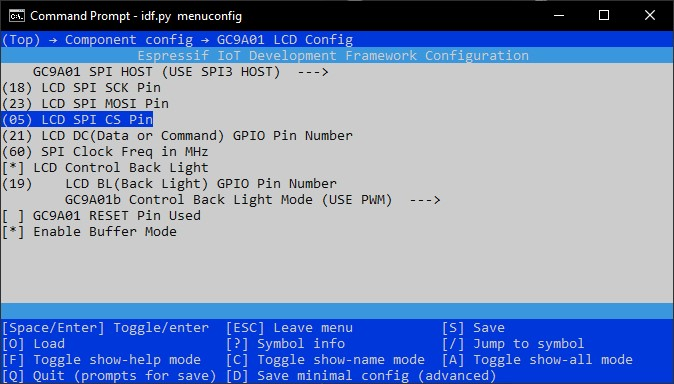
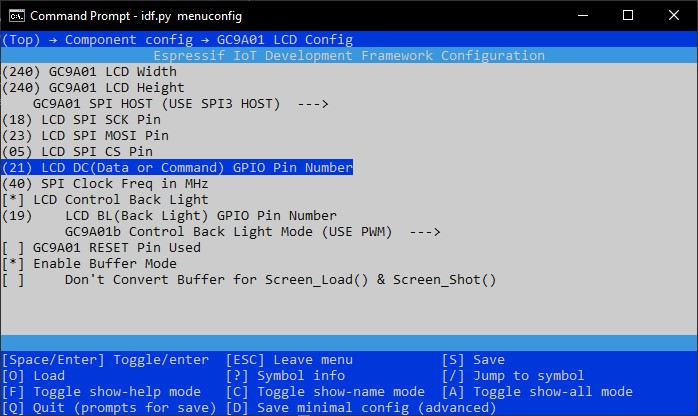
add ScreenShot function

Changed region(s): [[0.0, 0.0, 1.0, 0.6875], [0.0, 0.7812, 1.0, 1.0], [0.6231, 0.5, 0.6543, 0.5312]]

diff --git a/gc9a01.c b/gc9a01.c
@@ -67,9 +67,6 @@
 #define MADCTL_BGR       0x08
 #define MADCTL_MH        0x04
 
-#define GC9A01_Width	240
-#define GC9A01_Height 	240
-
 uint8_t GC9A01_X_Start = 0, GC9A01_Y_Start = 0;
 
 #if (CONFIG_GC9A01_BUFFER_MODE)
@@ -608,3 +605,35 @@ void GC9A01_Init()
 	#endif
 }
 
+#if(CONFIG_GC9A01_BUFFER_MODE)
+void GC9A01_Screen_Shot(uint16_t x,uint16_t y,uint16_t width ,uint16_t height,uint16_t * Buffer)
+{
+	uint16_t i,j;
+	for (i=0;i<height;i++)
+	{
+		for(j=0;j<width;j++)
+		{
+			#if(!CONFIG_GC9A01_BUFFER_SCREEN_FAST_MODE)
+			Buffer[i*width+j]=GC9A01_GetPixel(x+j,y+i);
+			#else
+			Buffer[i*width+j]=ScreenBuff[((y+i) * GC9A01_Width )+ (x+j)];
+			#endif
+		}
+	}
+}
+void GC9A01_Screen_Load(uint16_t x,uint16_t y,uint16_t width ,uint16_t height,uint16_t * Buffer)
+{
+	uint16_t i,j;
+	for (i=0;i<height;i++)
+	{
+		for(j=0;j<width;j++)
+		{
+			#if(!CONFIG_GC9A01_BUFFER_SCREEN_FAST_MODE)
+			GC9A01_DrawPixel(x+j,y+i,Buffer[i*width+j]);
+			#else
+			ScreenBuff[((y+i) * GC9A01_Width )+ (x+j)] = Buffer[i*width+j];
+			#endif
+		}
+	}
+}
+#endif

diff --git a/include/gc9a01.h b/include/gc9a01.h
@@ -5,6 +5,9 @@
 #ifndef _GC9A01_H
 #define _GC9A01_H
 
+#define GC9A01_Width	CONFIG_GC9A01_Width
+#define GC9A01_Height 	CONFIG_GC9A01_Height
+
 uint16_t GC9A01_GetWidth();
 uint16_t GC9A01_GetHeight();
 
@@ -16,5 +19,8 @@ void GC9A01_FillRect(int16_t x, int16_t y, int16_t w, int16_t h, uint16_t color)
 void GC9A01_Update();
 void GC9A01_SetBL(uint8_t Value);
 uint16_t GC9A01_GetPixel(int16_t x, int16_t y);
+
+void GC9A01_Screen_Shot(uint16_t x,uint16_t y,uint16_t width ,uint16_t height,uint16_t * Buffer);
+void GC9A01_Screen_Load(uint16_t x,uint16_t y,uint16_t width ,uint16_t height,uint16_t * Buffer);
 
 #endif
